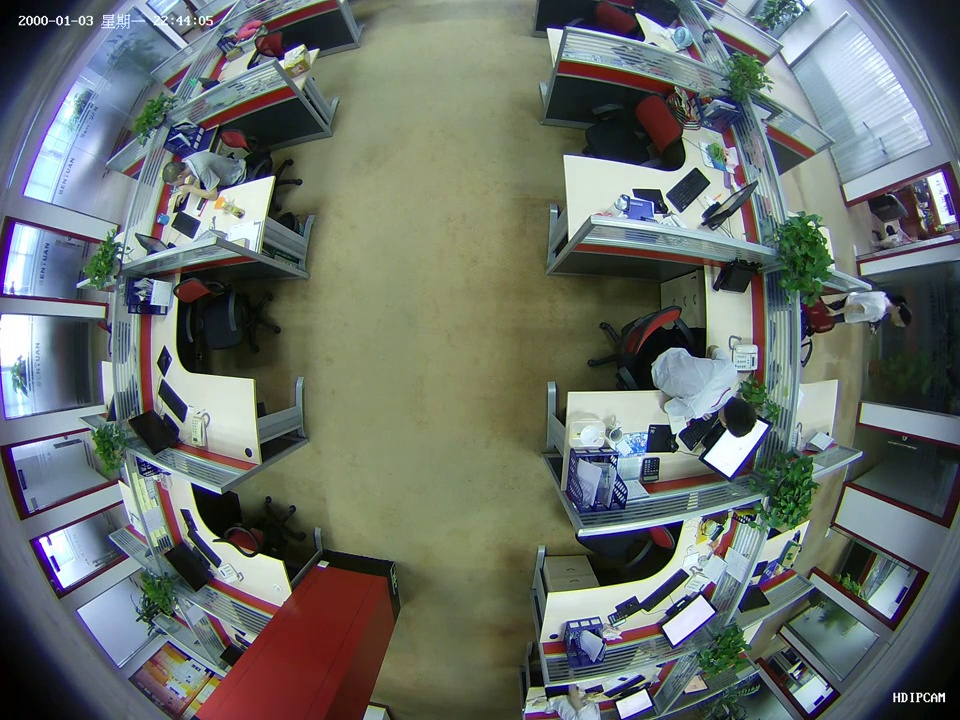
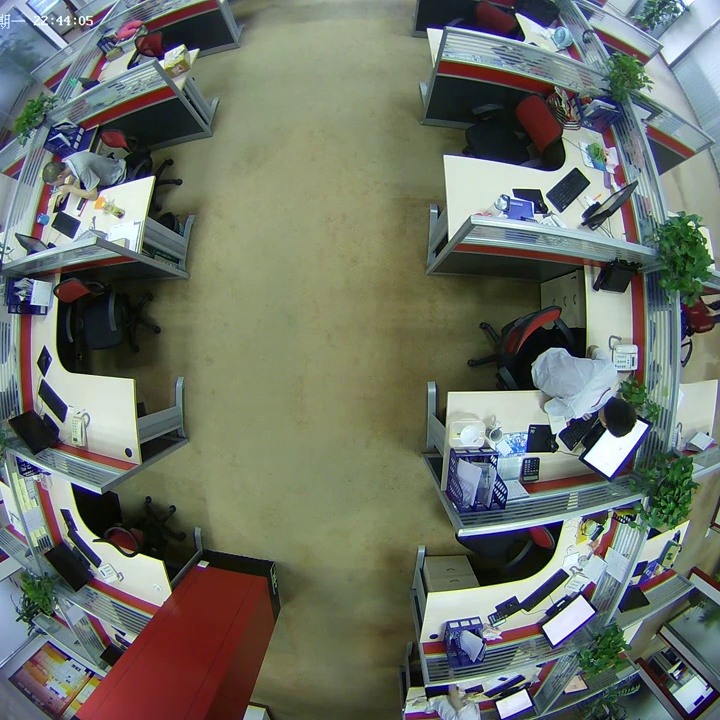
Images are now cropped to be square.

diff --git a/autobound.py b/autobound.py
@@ -16,6 +16,10 @@ def video_to_frames(video_name):
     while cap.isOpened():
         frameWasCaptured, frame = cap.read()
         if frameWasCaptured:
+            h, w, channels = frame.shape 
+            x1 = w/2 - h/2
+            x2 = x1 + h
+            frame = frame[0:h, x1:x2]
             cv2.imwrite(output_path + '/frame{:d}.jpg'.format(count), frame)
             count += 30 # i.e. at 30 fps, this advances one second
             cap.set(1, count)
